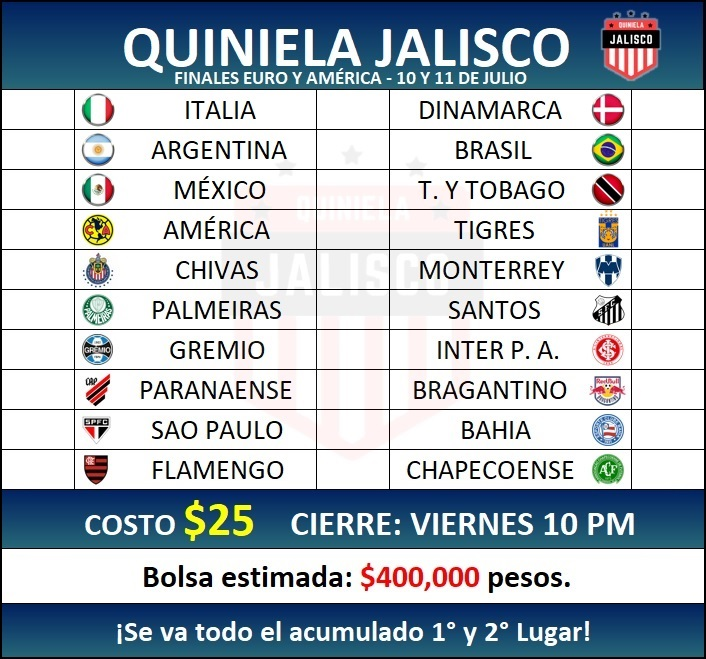
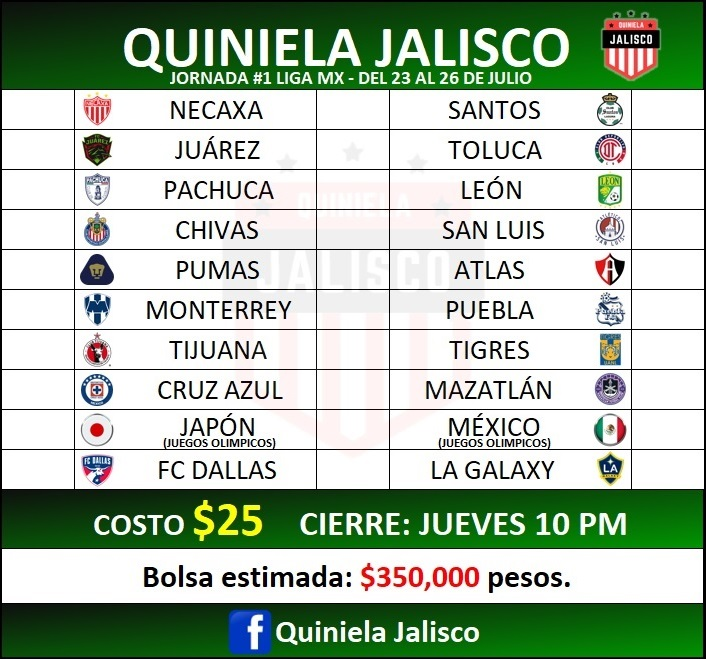
Jornada 1 A21 (10) v2

diff --git a/10/styles10.css b/10/styles10.css
@@ -88,8 +88,8 @@ h1{
     margin-top: 8%;
     border: solid 1px black;
     border-radius: 0 0 14px 14px;
-    background: -webkit-linear-gradient(0.5turn, rgb(35,100,120)  ,rgb(5,36,100) 80%);
-    background: linear-gradient(0.5turn, rgb(35,100,120)  ,rgb(5,36,100) 80%);
+    background: -webkit-linear-gradient(0.51turn, rgb(6,135,9)  ,rgb(13,25,13) 80%);
+    background: linear-gradient(0.51turn, rgb(6,135,9)  ,rgb(13,25,13) 80%);
     font-size: x-large;
 }
 
